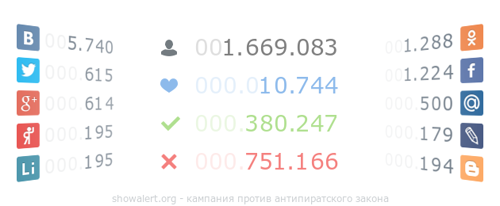
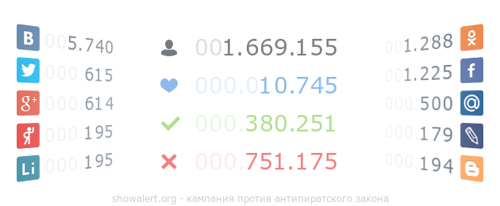
update statistics files for plugins

diff --git a/votes.js b/votes.js
@@ -1,1 +1,1 @@
-window.lk.votes(31189)
+window.lk.votes(31198)
